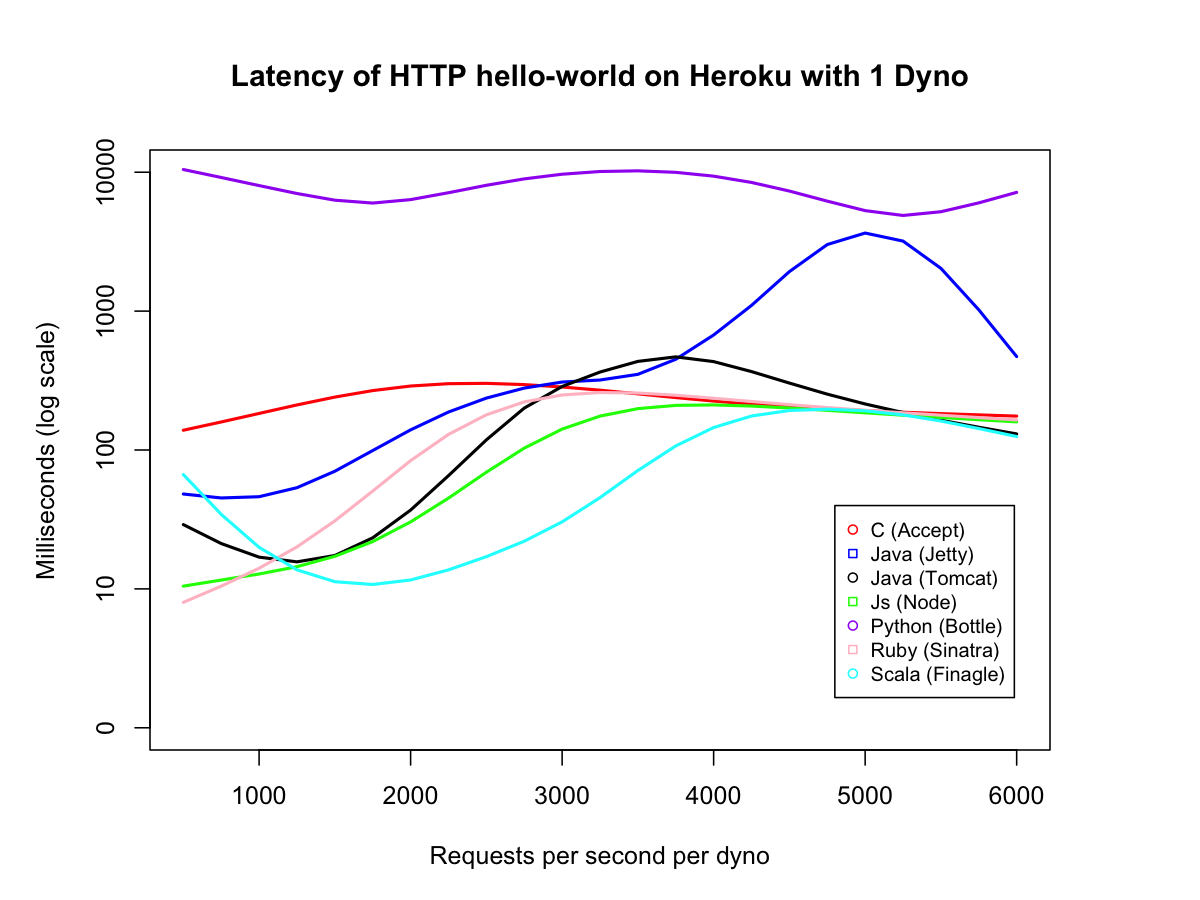
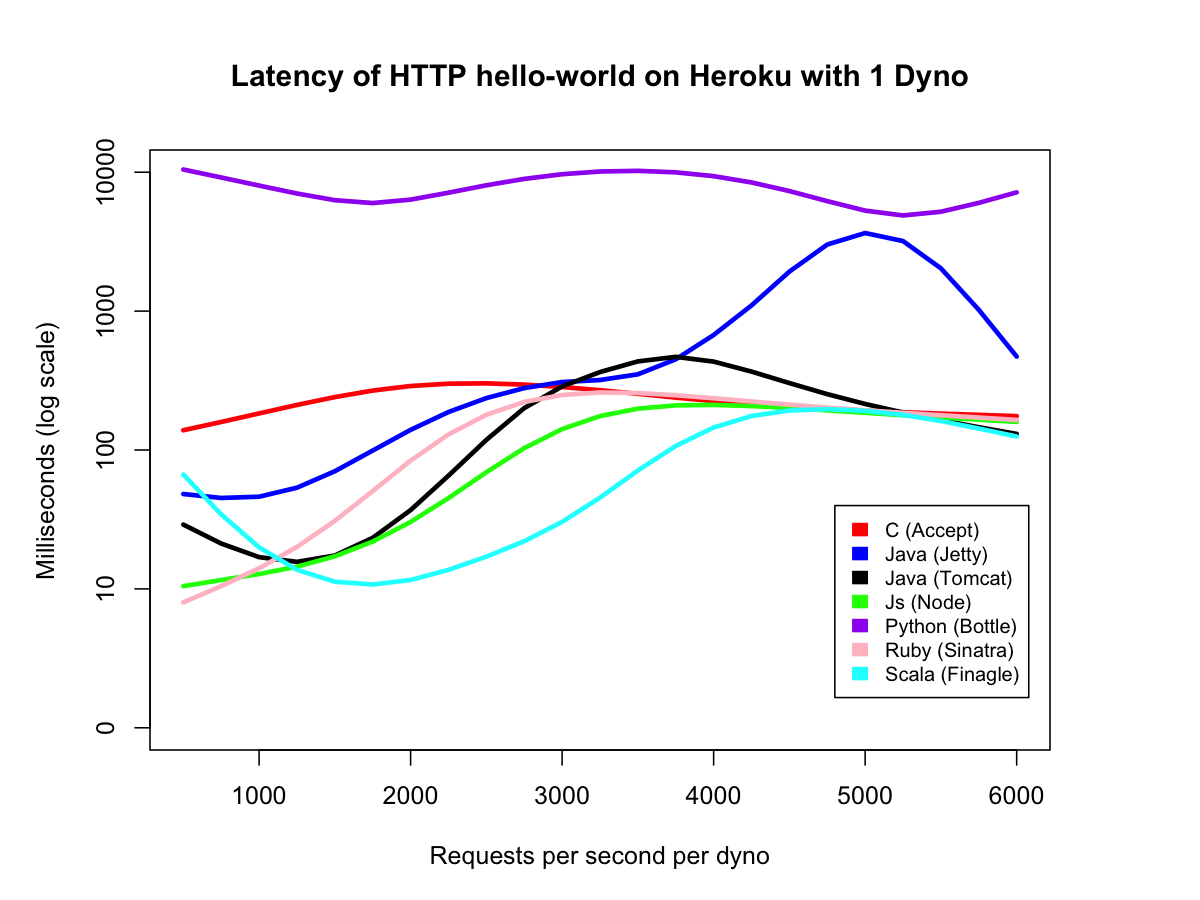
Better labeling.

diff --git a/chart.rb b/chart.rb
@@ -33,22 +33,6 @@ File.open('tmp/chart.csv', 'w') do |file|
 end
 
 File.open('tmp/chart.r', 'w') do |file|
-  file.puts <<-preamble
-    data = read.table('tmp/chart.csv', header=T, sep=',')
-    attach(data)
-    dynos = #{dynos}
-    dem_req_rate = dem_req_rate/dynos
-
-    range_response_time = #{range_response_time}
-    range_errors = #{range_errors}
-    range_responses = max(dem_req_rate)
-    smoothness = #{smoothness}
-
-    png('#{folder}-throughput.png', width=8, height=6, units = 'in', res=150)
-    par(mar=c(5,5,5,5))
-    xl <- seq(min(dem_req_rate),max(dem_req_rate), (max(dem_req_rate) - min(dem_req_rate))/1000)
-  preamble
-
   labels = []
   data["dem_req_rate"].each do |l|
     if l =~ /avg_rep_rate_(.*?)_(.*?)$/
@@ -65,6 +49,25 @@ File.open('tmp/chart.r', 'w') do |file|
 
   colors = %w(red blue black green purple pink cyan magenta orange)[0..labels.size]
 
+  file.puts <<-preamble
+    data = read.table('tmp/chart.csv', header=T, sep=',')
+    attach(data)
+    dynos = #{dynos}
+    dem_req_rate = dem_req_rate/dynos
+
+    range_response_time = #{range_response_time}
+    range_errors = #{range_errors}
+    range_responses = max(dem_req_rate)
+    smoothness = #{smoothness}
+
+    legend_colors = c(#{colors.inspect[1..-2]})
+    legend_labels = c(#{labels.inspect[1..-2]})
+
+    png('#{folder}-throughput.png', width=8, height=6, units = 'in', res=150)
+    par(mar=c(5,5,5,5))
+    xl <- seq(min(dem_req_rate),max(dem_req_rate), (max(dem_req_rate) - min(dem_req_rate))/1000)
+  preamble
+
   i = 0
   data["dem_req_rate"].each do |y|
     next unless y =~ /avg_rep_rate_/
@@ -73,7 +76,7 @@ File.open('tmp/chart.r', 'w') do |file|
       par(new=T)
       plot(dem_req_rate, #{y}, ylim=c(0,range_responses), axes=F, ann=F, type='n')
       smooth = smooth.spline(dem_req_rate, #{y}, spar=smoothness)
-      lines(predict(smooth, dem_req_rate), col='#{colors[i]}', lwd=2, lty=1)
+      lines(predict(smooth, dem_req_rate), col='#{colors[i]}', lwd=3, lty=1)
     plotter
     i = i + 1
   end
@@ -85,7 +88,7 @@ File.open('tmp/chart.r', 'w') do |file|
       par(new=T)
       plot(dem_req_rate, #{y}, ylim=c(0,range_errors), axes=F, ann=F, type='n')
       smooth = smooth.spline(dem_req_rate, #{y}, spar=smoothness)
-      lines(predict(smooth, dem_req_rate), col='#{colors[i]}', lwd=2, lty=3)
+      lines(predict(smooth, dem_req_rate), col='#{colors[i]}', lwd=3, lty=3)
     plotter
     i = i + 1
   end
@@ -97,7 +100,7 @@ File.open('tmp/chart.r', 'w') do |file|
     title(main='Throughput of #{title}')
     axis(1)
     axis(2)
-    legend(range_responses * 0.1, range_responses * 0.95, c(#{labels.inspect[1..-2]}), cex=0.8, col=c(#{colors.inspect[1..-2]}), pch=21:22, bg='white')
+    legend(range_responses * 0.1, range_responses * 0.95, legend_labels, cex=0.8, col=legend_colors, bg='white', fill=legend_colors, border=legend_colors)
 
     par(new=T)
     plot(dem_req_rate, dem_req_rate, ylim=c(0,range_errors), axes=F, ann=F, type='n')
@@ -121,7 +124,7 @@ File.open('tmp/chart.r', 'w') do |file|
       par(new=T)
       plot(dem_req_rate, log10(#{y}), ylim=c(0,log10(range_response_time)), axes=F, ann=F, type='n')
       smooth = smooth.spline(dem_req_rate, log10(#{y}), spar=smoothness)
-      lines(predict(smooth, dem_req_rate), col='#{colors[i]}', lwd=2, lty=1)
+      lines(predict(smooth, dem_req_rate), col='#{colors[i]}', lwd=3, lty=1)
     plotter
     i = i + 1
   end
@@ -131,7 +134,7 @@ File.open('tmp/chart.r', 'w') do |file|
     title(main='Latency of #{title}')
     axis(1)
     axis(2, at=axTicks(2), c(0, 10, 100, 1000, 10000))
-    legend(range_responses*0.8, log10(range_response_time)*0.4, c(#{labels.inspect[1..-2]}), cex=0.8, col=c(#{colors.inspect[1..-2]}), pch=21:22, bg='white')
+    legend(range_responses*0.8, log10(range_response_time)*0.4, legend_labels, cex=0.8, col=legend_colors, bg='white', fill=legend_colors, border=legend_colors)
     title(xlab="Requests per second per dyno", ylab="Milliseconds (log scale)")
 
     box()
